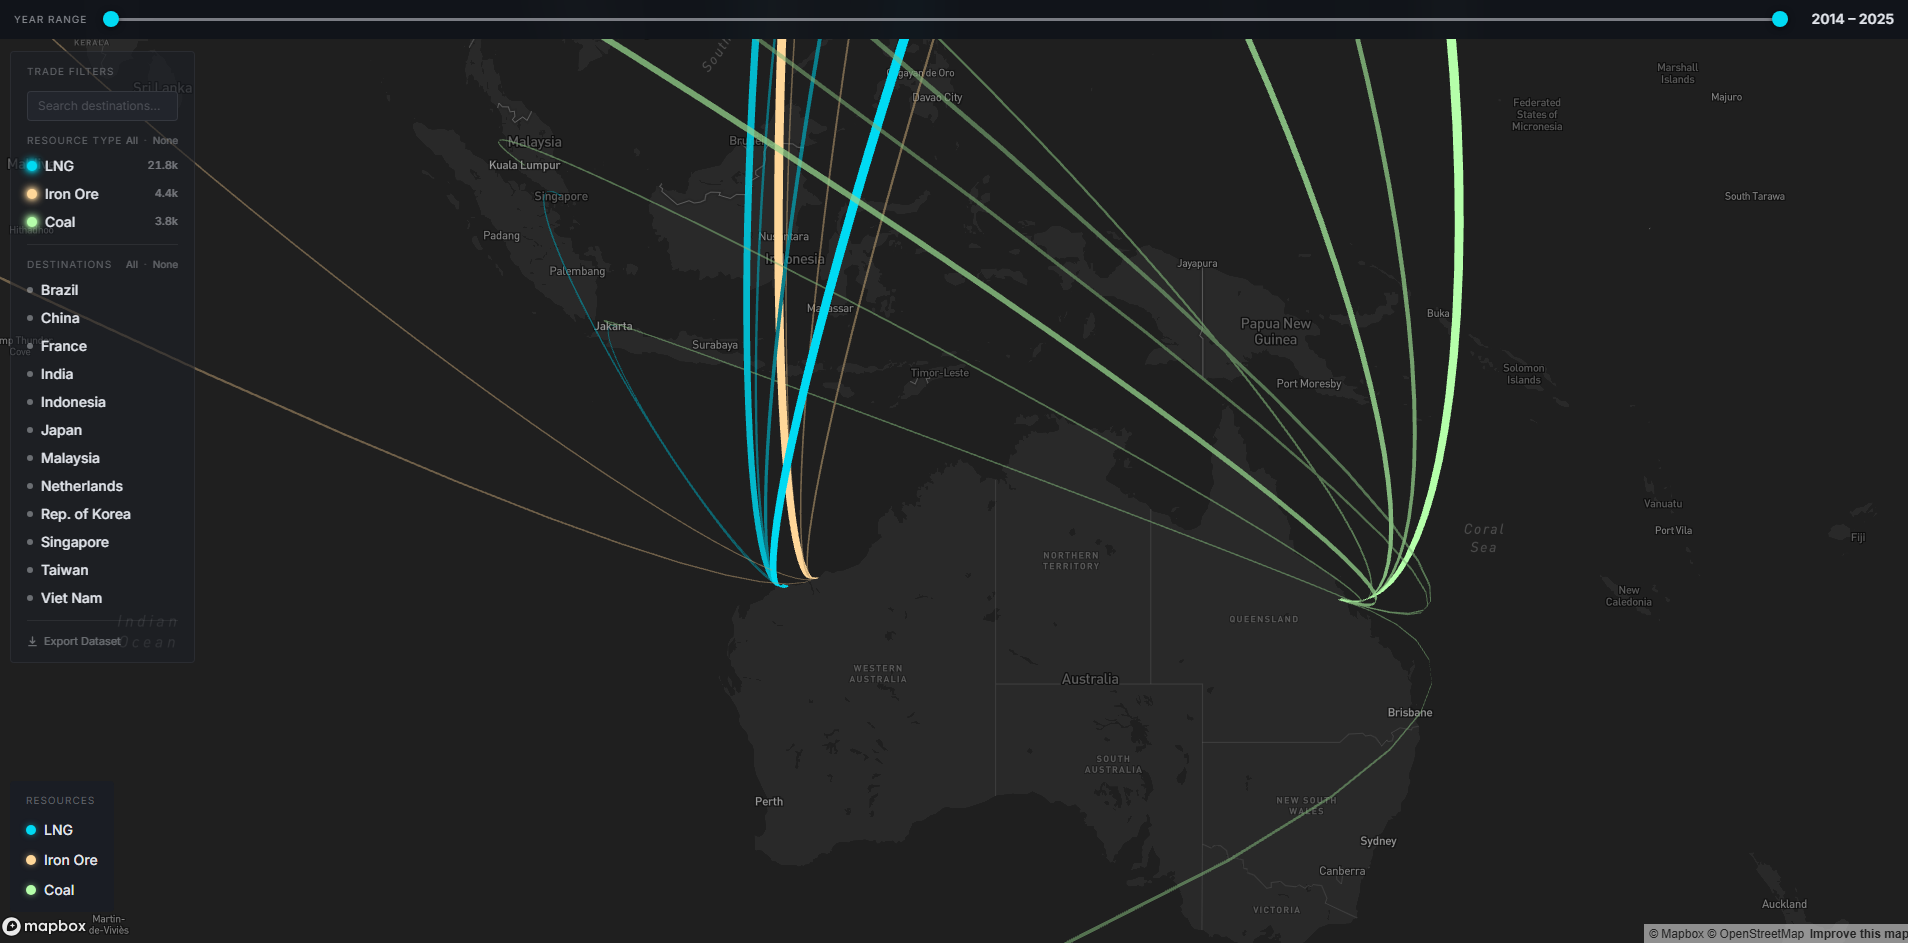
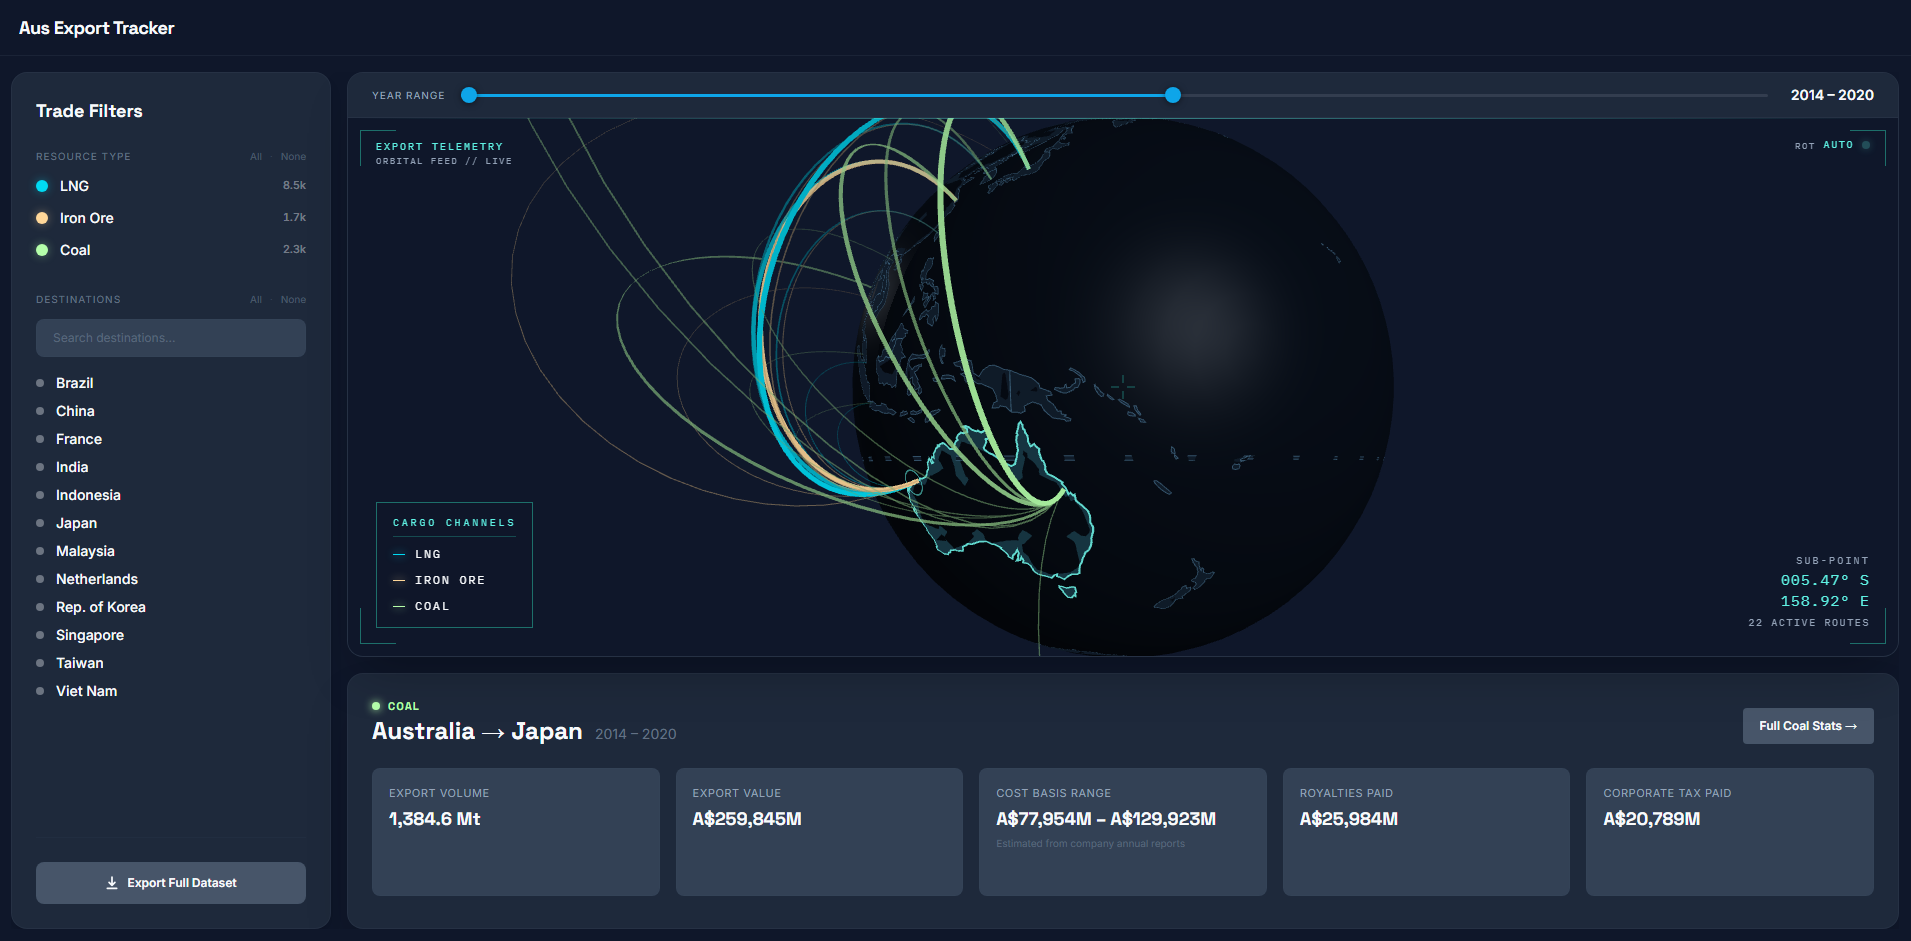
fix: match project media frame to screenshot aspect ratio
Project screenshots are ~2:1 but the media frame forced 16/10, so
object-cover cropped the left/right edges. Sets the frame to 2/1 so
the full width shows with no clipping. Also refreshes the Aus Export
Tracker screenshot.

diff --git a/src/app/globals.css b/src/app/globals.css
@@ -836,7 +836,7 @@ a {
 .project-card__media {
   flex: 1.2;
   background: var(--paper-panel);
-  aspect-ratio: 16/10;
+  aspect-ratio: 2 / 1;
   border-radius: var(--radius-panel);
   padding: clamp(1rem, 3vw, 3rem);
   display: flex;
